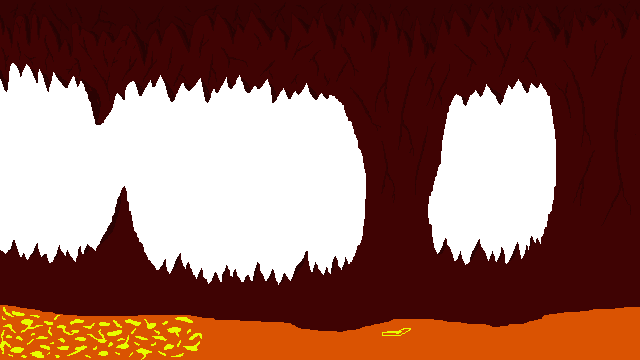
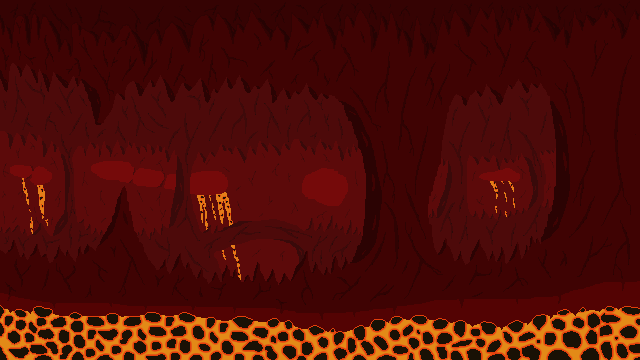
Added background

diff --git a/Game/Running.hpp b/Game/Running.hpp
@@ -56,6 +56,8 @@ class Running : public State {
 	float gameOverCounter = 3.0f;
 
 	std::vector<PowerUp*> powerUps;
+
+	sf::Sprite background;
 public:
 
 	/**
@@ -78,8 +80,8 @@ public:
 		using Type = MapFactory::Type;
 		using Value = MapFactory::Value;
 
-		//std::ifstream file("map.txt");
-		std::ifstream file("map_generated.txt");
+		std::ifstream file("map.txt");
+		//std::ifstream file("map_generated.txt");
 		MapFactory mapFactory(file);
 
 
@@ -128,6 +130,12 @@ public:
 		});
 
 		map = mapFactory.buildMap();
+
+		
+		
+		background.setPosition({ 0, 0 });
+		background.setTexture(AssetManager::instance()->getTexture("background"));
+		background.setTextureRect({ 0, 0, 640, 360 });
 	}
 
 	/**
@@ -217,6 +225,8 @@ public:
 	 */
 
 	void update(const float elapsedTime) override {
+		background.setPosition(statemachine.window.mapPixelToCoords({ 0, 0 }));
+		statemachine.window.draw(background);
 		map.resolve();
 
 		if (!gameOver) {

diff --git a/Game/Statemachine.hpp b/Game/Statemachine.hpp
@@ -153,7 +153,8 @@ public:
 	*/
 	
 	void update(const float elapsedTime) {
-		window.clear(sf::Color(63, 3, 3));
+		//window.clear(sf::Color(63, 3, 3));
+		window.clear();
 		currentState->update(elapsedTime);
 		window.display();
 	}
